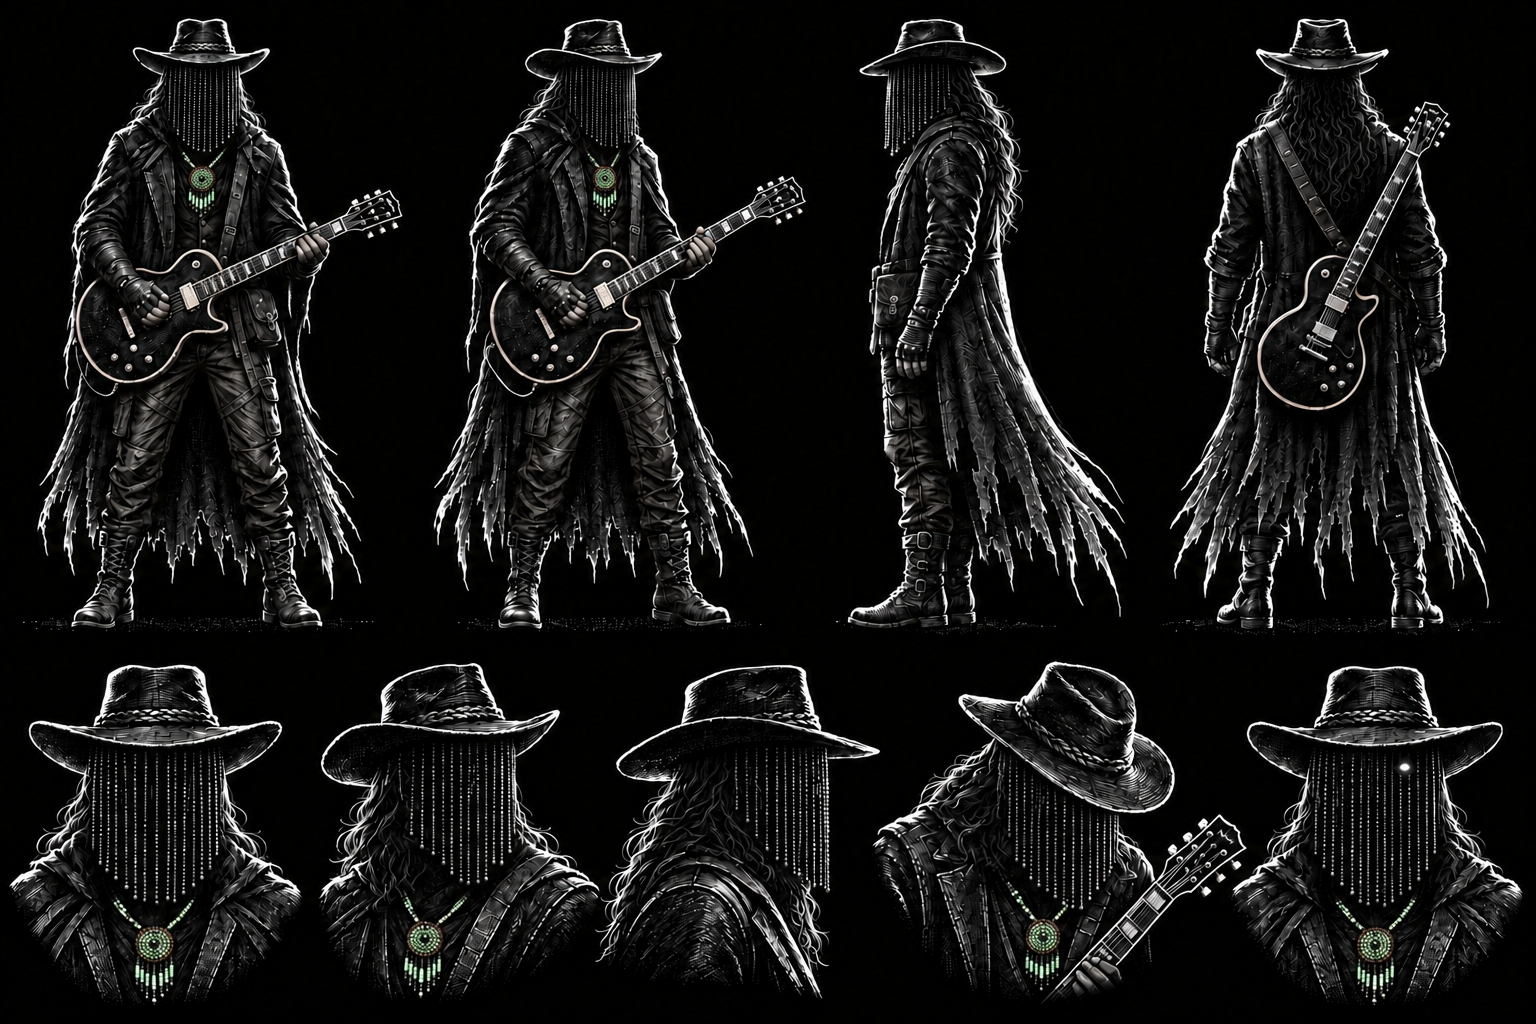
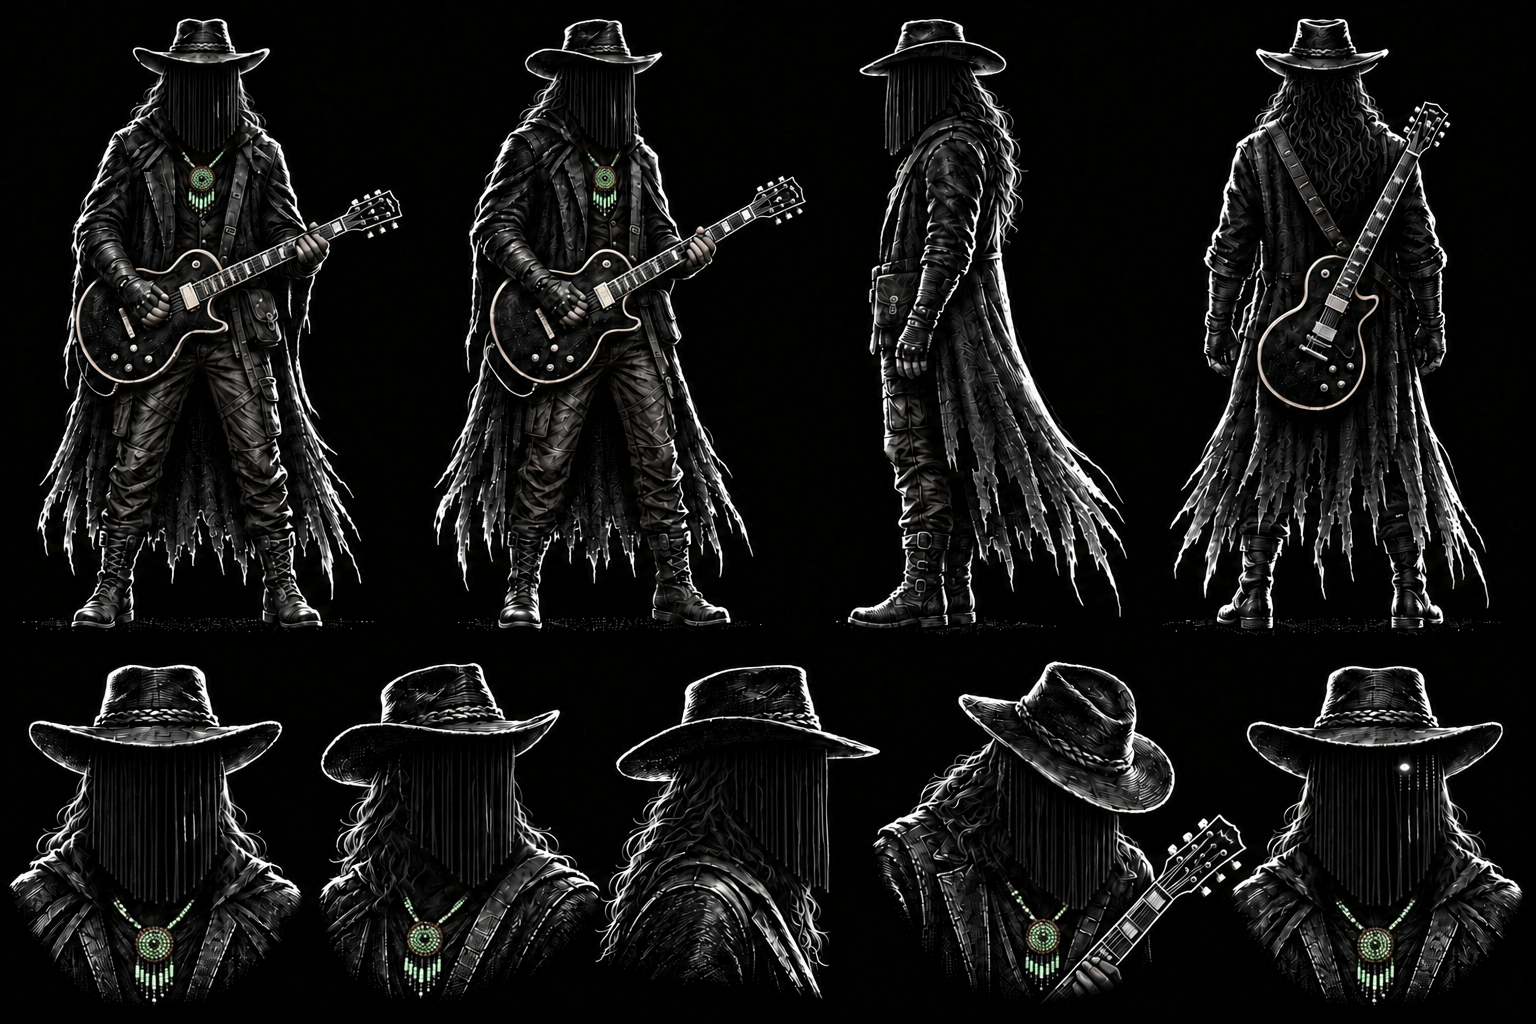
Hjeron painted: dark string veil, not silver beads
The veil strings had turned into bright silver bead chains in the sheet
and the stills. Locked sheet v6 and verse 3 shots 2, 4, 7 and 8 now have
black strings with only faint glints, composited from a Codex repaint so
the ember eye and the green amulet stayed as locked.

Refs #83

diff --git a/hjeron-dark-blues-painted/gpt/character/README.md b/hjeron-dark-blues-painted/gpt/character/README.md
@@ -13,8 +13,10 @@ in `prompt-sheet-v1.txt` to `prompt-sheet-v4.txt`.
 5. v5 (2026-10-08): the amulet in Hjeron's muted greens, the only colour in the image (Robin: everything
    black and white except that one thing, some green, not super bright). The green was composited from a
    Codex repaint onto v4, so nothing else changed (the repaint alone had dropped the ember eye).
+6. v6 (2026-10-08): the veil strings dark, black on black with only faint glints; they had turned into
+   bright silver bead chains. Veil areas composited from a repaint, so the eye and amulet stayed as locked.
 
-What it fixes about him: string veil over the face only, never a face; long dark wavy hair, never
+What it fixes about him: string veil over the face only, dark black strings with faint glints (never silver beads), never a face; long dark wavy hair, never
 dreadlocks; wide black hat with a braided band; long open duster over a vest with a shredded
 ankle-length hem; the green beaded rosette amulet with its fringe; black Les Paul with cream binding;
 one ember eye at most, on the viewer's right. The amulet is the only colour: muted green.
